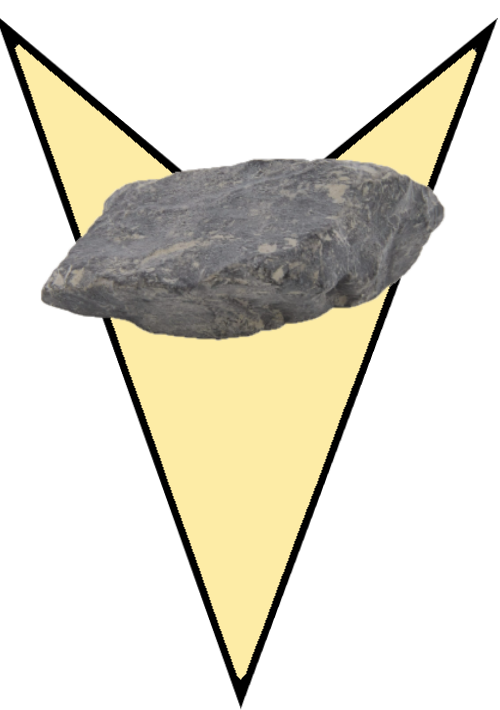
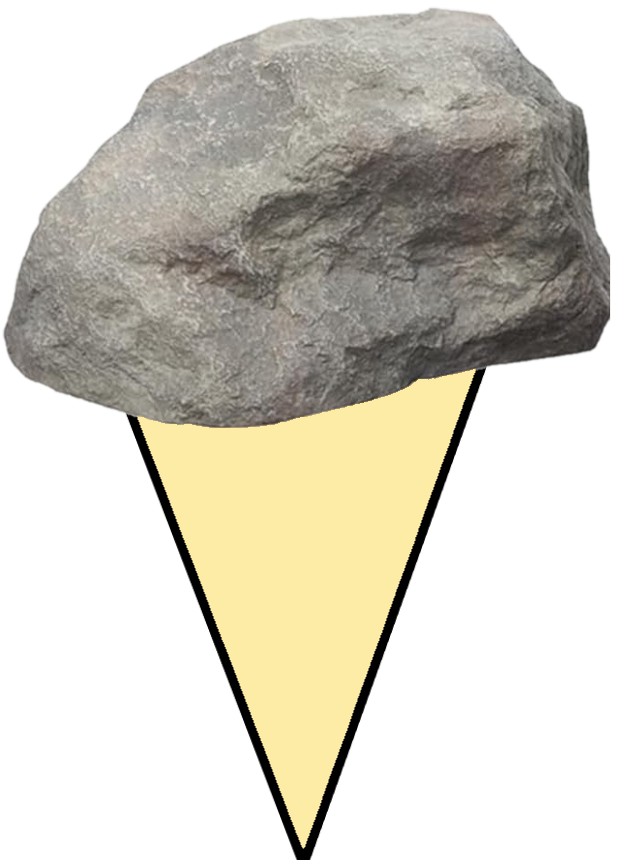
ROCK-160: Modified the mian  maps markers.

diff --git a/frontend/src/components/SloveniaMap.jsx b/frontend/src/components/SloveniaMap.jsx
@@ -99,11 +99,7 @@ const SloveniaMap = ({ climbingAreas, climbingCenters, latitude, longitude, setL
                 : ((center.routes?.length || 0) > 5
                 ? 'https://raw.githubusercontent.com/pointhi/leaflet-color-markers/master/img/marker-icon-2x-orange.png'
                 : 'https://raw.githubusercontent.com/pointhi/leaflet-color-markers/master/img/marker-icon-2x-yellow.png')*/
-                const iconUrl = (center.routes?.length || 0) > 10
-                    ? '/markers/marker_area_orange.png'
-                    : ((center.routes?.length || 0) > 5
-                        ? '/markers/marker_area_yellow.png'
-                        : '/markers/marker_area_beige.png')
+                const iconUrl = '/markers/marker_center.png'
                 return (
                     <Marker
                         key={center._id}
